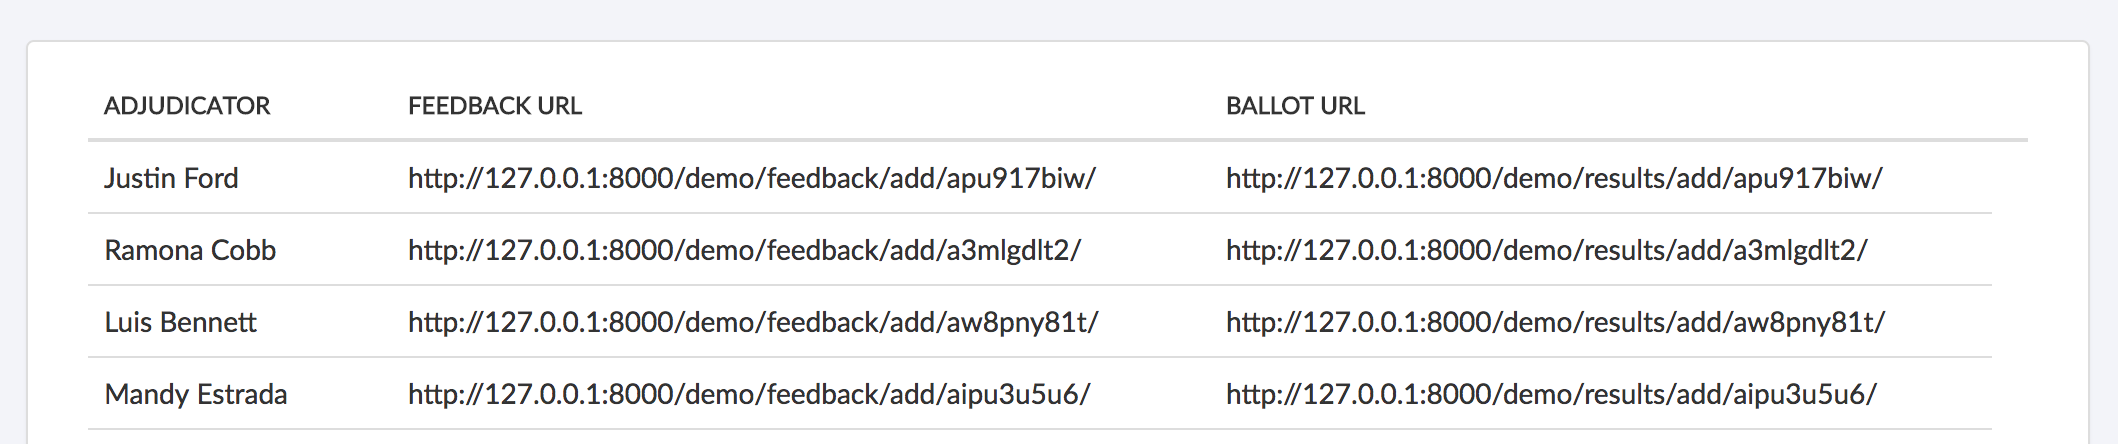
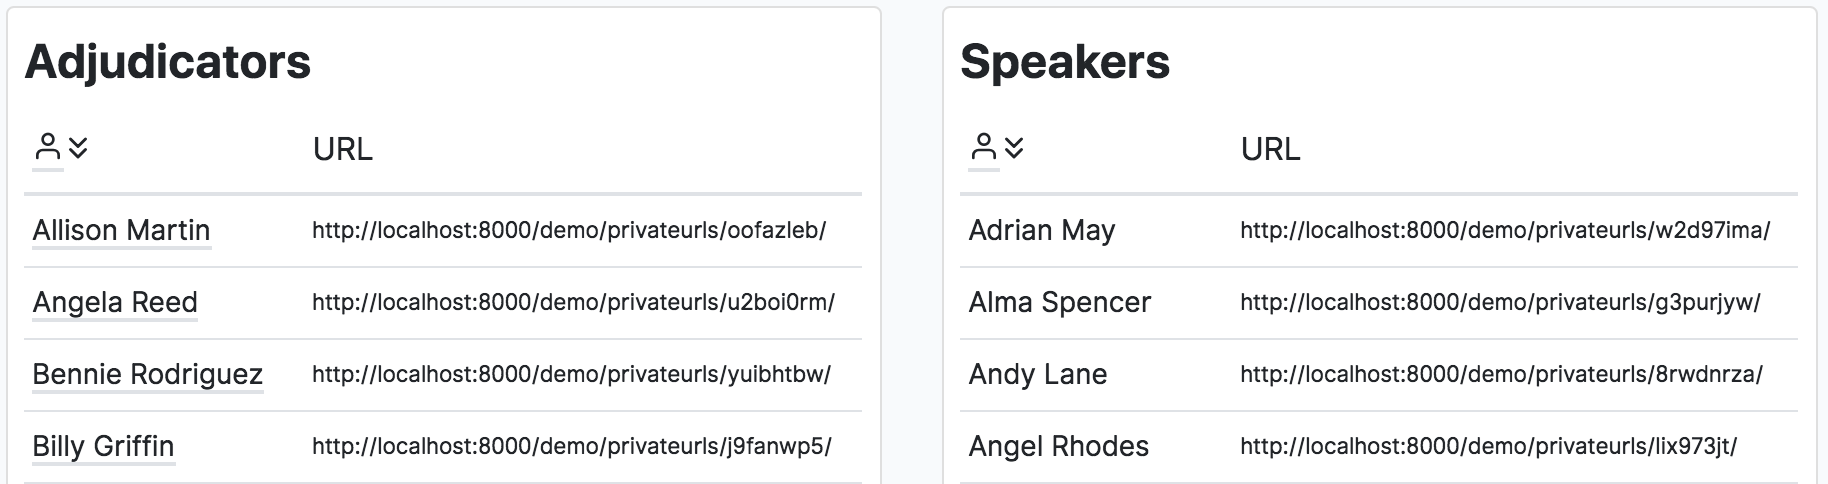
Add tips about notifications to documentation
The new features for notifications is now in the documentation in the
form of tips in the "Running a Tournament" and "Data Entry" pages,
informing users of the new email features.

Also fixed some typos and updated the Private URLs image to relate to
its current form.

diff --git a/docs/features/data-entry.rst b/docs/features/data-entry.rst
@@ -36,6 +36,7 @@ As a general principle, Tabbycat requires all ballots to be looked at by two peo
   - Don't forget to check the winner against the ballot! If the adjudicator gets it wrong, it's worth asking to clarify.
   - It can be helpful to think about the room layout to maximize efficiency.
   - Some tab rooms like to assign some to data entry and some to verification. This isn't really necessary, since Tabbycat doesn't let the same person enter and verify the same ballot. (This is one of many reasons why every person should have their own account.)
+  - Emails can be configured to be sent to adjudicators as a receipt of their ballot once confirmed.
 
 Duplicate/Swing Speeches
 ------------------------
@@ -66,9 +67,9 @@ There are two methods of allowing ballots and feedback to be submitted online. B
 Private URLs
 ------------
 
-The first method of data entry is using 'private URLs'. When this setting is enabled you can create a special URL that is unique to a particular participant. This link contains a number of random characters and is not displayed publicly; it is in effect a secret that only that particular participant should know. Presuming people do not share these links to others this provides a means to (relatively) securely identify who is submitting what information. Because Tabbycat knows which participant has which URL it will only allow them to submit feedback/ballots for debates that they were speakers/adjudicators in.
+The first method of data entry is using 'private URLs'. When this setting is enabled you can create a special URL that is unique to a participant. This link contains a number of random characters and is not displayed publicly; it is in effect a secret that only that a specific participant should know. Presuming people do not share these links to others, this provides a means to (relatively) securely identify who is submitting what information. Because Tabbycat knows which participant has which URL it will only allow them to submit feedback/ballots for debates that they were speakers/adjudicators in.
 
-.. warning:: Private URLs should provide more than adequate security for almost all tournaments' purposes, but they aren't foolproof. Anyone with access to the URL for a participant can submit feedback from them, so it's important that participants not share their URLs. This also means participants need to be careful when submitting from devices they do not own, because the URL will be logged in that device's browser history.
+.. warning:: Private URLs should provide more than adequate security for almost all tournaments' purposes, but they aren't foolproof. Anyone with access to the URL for a participant can submit feedback or ballots on their behalf, so it's important that participants not share their URLs. This also means participants need to be careful when submitting from devices they do not own, because the URL will be logged in that device's browser history.
 
 These links must be generated within Tabbycat after the preference is enabled. To do so go to the **Feedback** section and then the **Private URLs** area. Once there you will be prompted to generate those URLs for all participants, which — once generated — will be presented in separate tables (one for teams; one for adjudicators).
 
@@ -76,11 +77,11 @@ These links must be generated within Tabbycat after the preference is enabled. T
 
 These URLs can then be distributed to each person in a number of ways. There are pages within Tabbycat for printing them out (one URL per page labelled by recipient) or emailing them out (providing participants have been assigned email addresses). In the past tournaments have also used data from this table to send out SMSs by bulk, or distributed them to institutional representatives to disburse.
 
-.. tip:: You can assign email address to participants using the :ref:`importtournament command <importtournament-command>` when importing your registration data, or by going to the *Edit Data* area and looking up each Speaker/Adjudicator.
+.. tip::
 
-.. tip:: If, after generating the private URLs, you add additional Teams or Adjudicators you can go to the *Edit Data* area , look up each Speaker/Adjudicator, and type in a bunch of random characters as their *Url key* to assign them a private URL.
-
-.. tip:: You can delete the current set of URLs by running this command in a shell on your server (replacing TOURNAMENT_SLUG with the appropriate value):
+  - You can assign email address to participants using the :ref:`importtournament command <importtournament-command>` when importing your registration data, or by going to the *Edit Data* area and looking up each Speaker/Adjudicator.
+  - If, after generating the private URLs, you add additional Teams or Adjudicators you can go to the *Edit Database* area , look up each Speaker/Adjudicator, and type in a bunch of random characters as their *Url key* to assign them a private URL.
+  - You can delete the current set of URLs by running this command in a shell on your server (replacing TOURNAMENT_SLUG with the appropriate value):
     ``python manage.py randomisedurls delete --tournament TOURNAMENT_SLUG``
 
 

diff --git a/docs/use/running-a-tournament.rst b/docs/use/running-a-tournament.rst
@@ -67,7 +67,10 @@ Once you're happy with your adjudicator allocation, you're ready to start the ro
 
 2. **Release to public.** If you're using the public draw function (where the draw is posted publicly to your Tabbycat website) use the **Release to Public** button to allow the page to display.
 
-  .. tip:: To avoid the site from being overloaded by anxious refreshers, we recommend that large tournaments not release the draw to the public until after it's been seen by general assembly. That said, note that due to caching there can be a delay of up to 1 minute between when a draw is released and when it first shows up on the public site.
+  .. tip:: 
+
+    - To avoid the site from being overloaded by anxious refreshers, we recommend that large tournaments not release the draw to the public until after it's been seen by general assembly. That said, note that due to caching there can be a delay of up to 1 minute between when a draw is released and when it first shows up on the public site.
+    - Tabbycat can be set to send emails once the draw is released to adjudicators informing them of their assignments for convenience.
 
 .. _releasing-the-motions:
 
@@ -106,6 +109,8 @@ Once you've got all the results entered and confirmed, you're ready to progress 
 
 .. image:: images/results-page.png
 
-.. warning:: When you advance to the next round, if you've enabled public results, the results for the current round (which is now the previous round) will be release to the public **unless** the round is marked as "silent" in the database. So if you're careful about when results should be released, don't change the current round until you're ready to release those results.
+.. warning:: When you advance to the next round, if you've enabled public results, the results for the current round (which is now the previous round) will be released to the public **unless** the round is marked as "silent" in the database. So if you're careful about when results should be released, don't change the current round until you're ready to release those results.
 
 .. note:: There is a design assumption that you will always want to release results for non-silent rounds before you start working on the draw for the next round. If this isn't true for you, please get in touch with us so that we know. The workaround is to make all rounds silent, then unsilent them when you're ready to release results.
+
+.. tip:: Emails can be sent to speakers informing them of their team's win/loss/points record before advancing rounds. This is independent from whether the whole round's results are released to the public.
